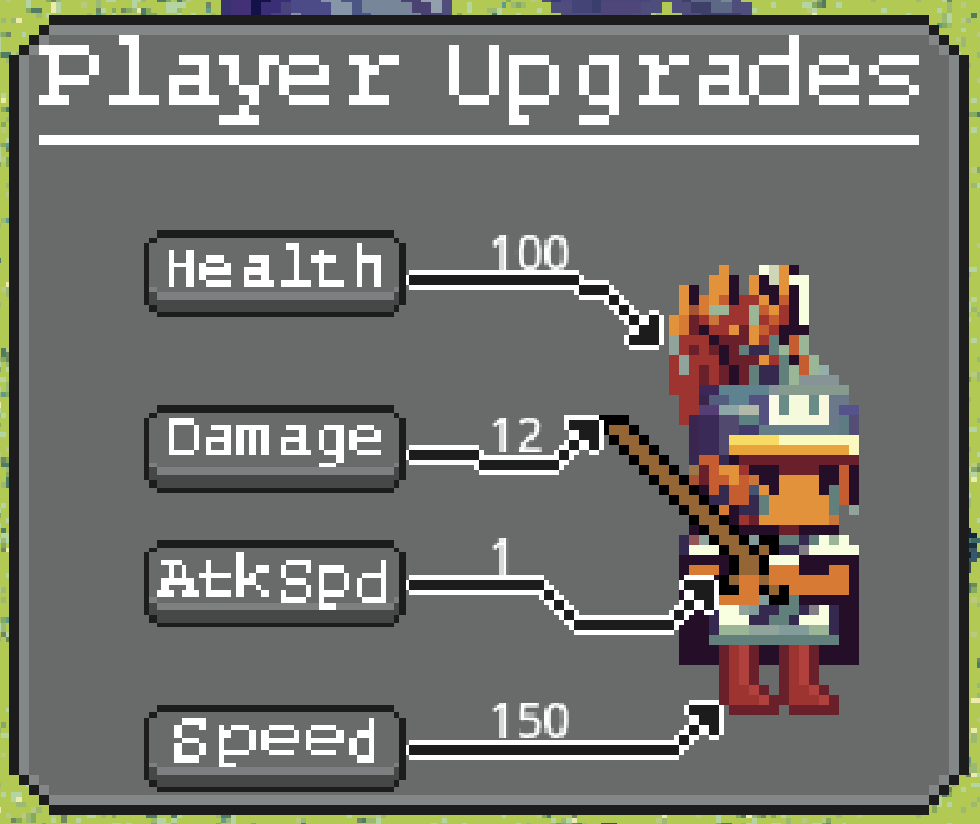
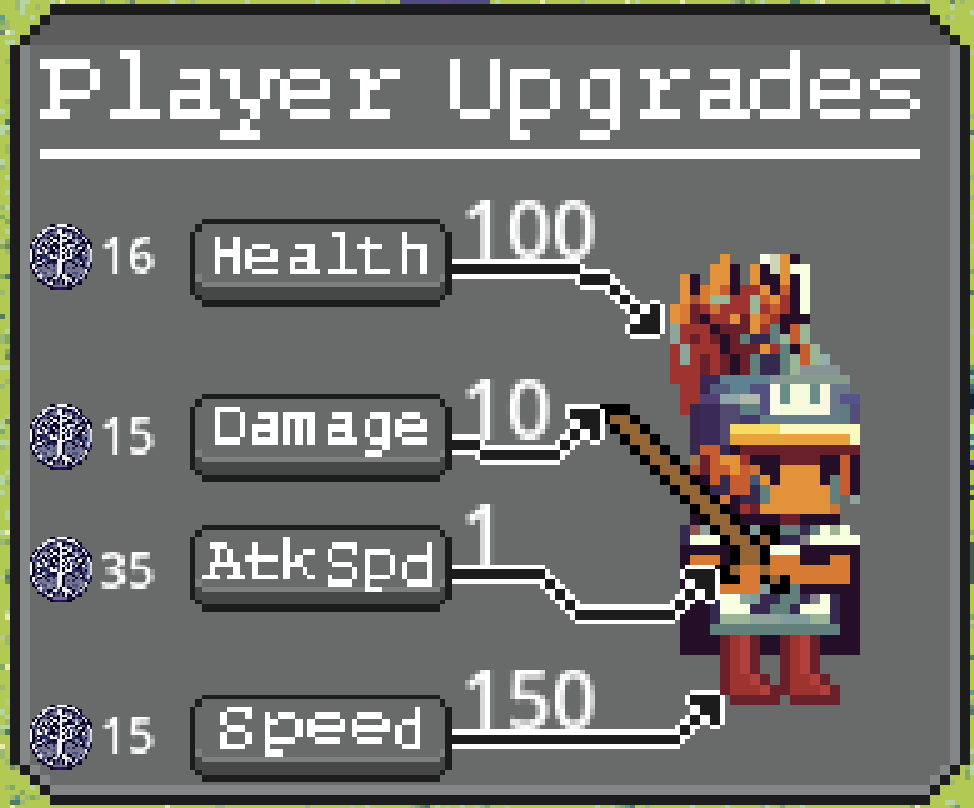
Add files via upload

diff --git a/TLA.html b/TLA.html
@@ -46,14 +46,14 @@
                     <img src="tower-build.jpeg" alt="Image 3">
                     <div class="card-content">
                         <h2 class="card-title">Tower Building</h2>
-                        <p class="card-text">So far there are 3 towers types. A simple attackig tower, a bank tower which prdouces gold, and a healing tower for the player. The healing tower will only work when the player is in range and enemies are out of range. The tower building mechanic is set on a grid with each tower taking up a 9 sqaure chunk.</p>
+                        <p class="card-text">So far there are 3 towers types. A simple attacking tower, a bank tower which prdouces silver, and a healing tower for the player. The healing tower will only work when the player is in range and enemies are out of range. The tower building mechanic is set on a grid with each tower taking up a 9 sqaure chunk.</p>
                     </div>
                 </div>
                 <div class="card">
                     <img src="player-up.jpeg" alt="Image 4">
                     <div class="card-content">
                         <h2 class="card-title">Player Upgrades</h2>
-                        <p class="card-text">The player can upgrade 4 main categories (as of now - this may develop into more attributes): health, damage, attack speed, and running speed. Each upgrade costs gold, and gets progressively more expensive as you upgrade. The menu on the left is not finalized (I still need to display the cost somewhere).</p>
+                        <p class="card-text">The player can upgrade 4 main categories (as of now - this may develop into more attributes): health, damage, attack speed, and running speed. Each upgrade costs gold, and gets progressively more expensive as you upgrade.</p>
                     </div>
                 </div>
                 <div class="card">

diff --git a/styles.css b/styles.css
@@ -261,7 +261,7 @@ footer {
 
 .game {
     display: flex;
-    align-items: flex-start;
+    align-items: center;
     margin-bottom: 20px;
     width: 80%;
     box-shadow: 0 4px 8px 0 rgba(0,0,0,0.2);
@@ -277,6 +277,9 @@ footer {
     height: auto;
     box-shadow: 0 4px 8px 0 rgba(0,0,0,0.2);
     transition: 0.3s;
+    vertical-align: center;
+    align-content: center;
+    justify-content: center;
 }
 
 .game img:hover {
